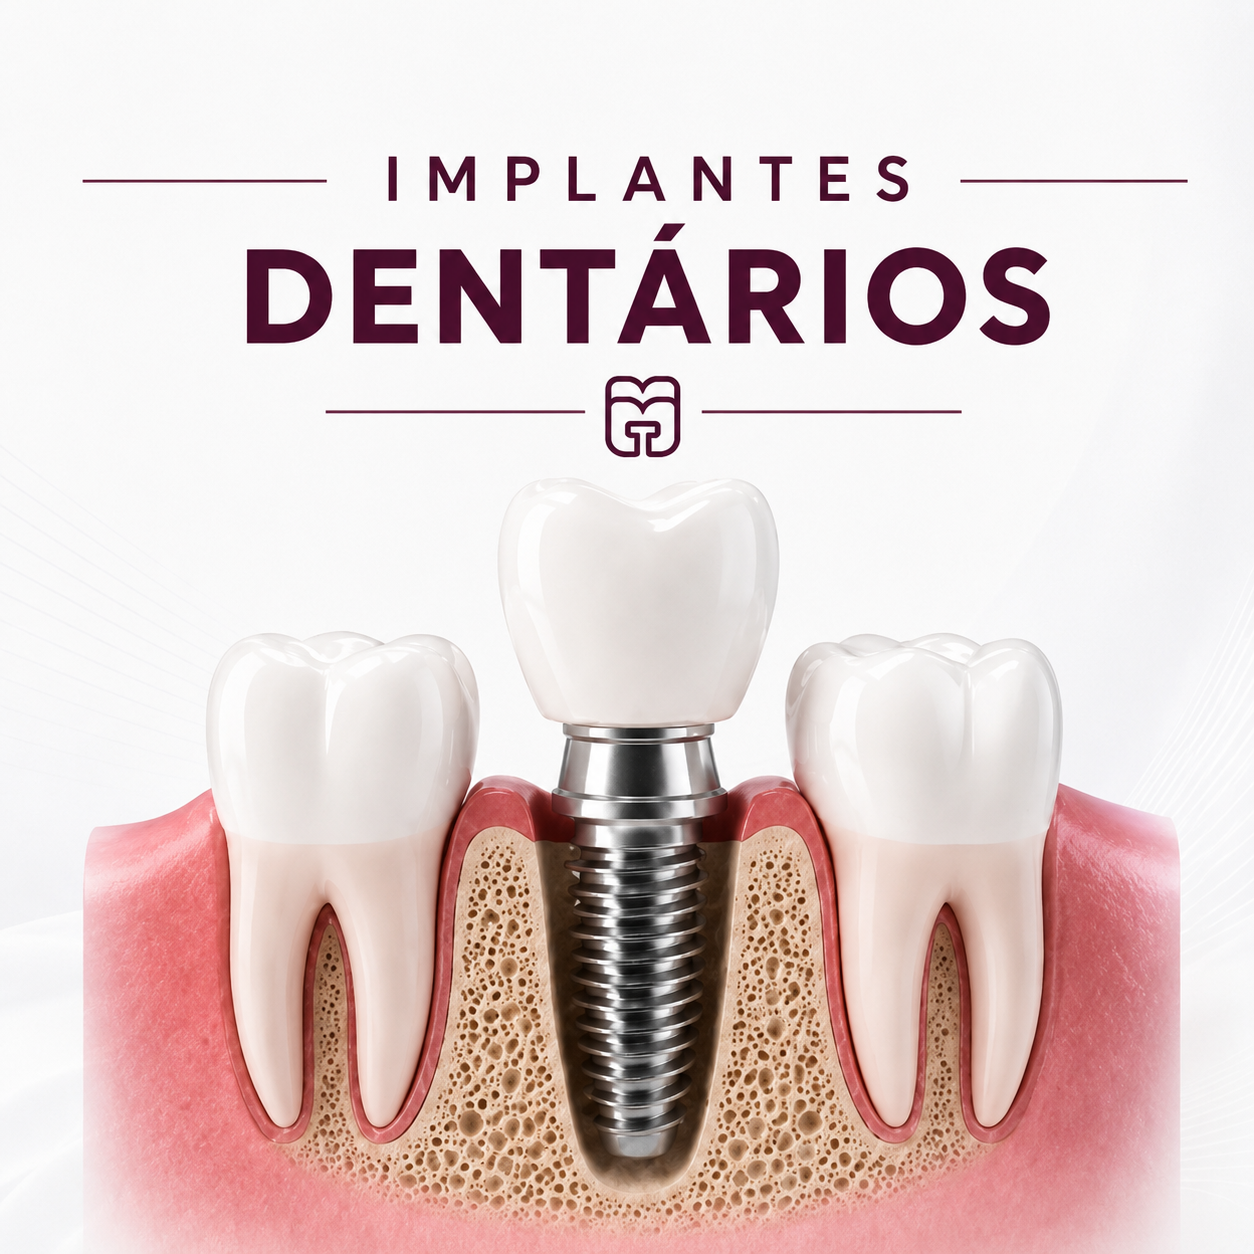
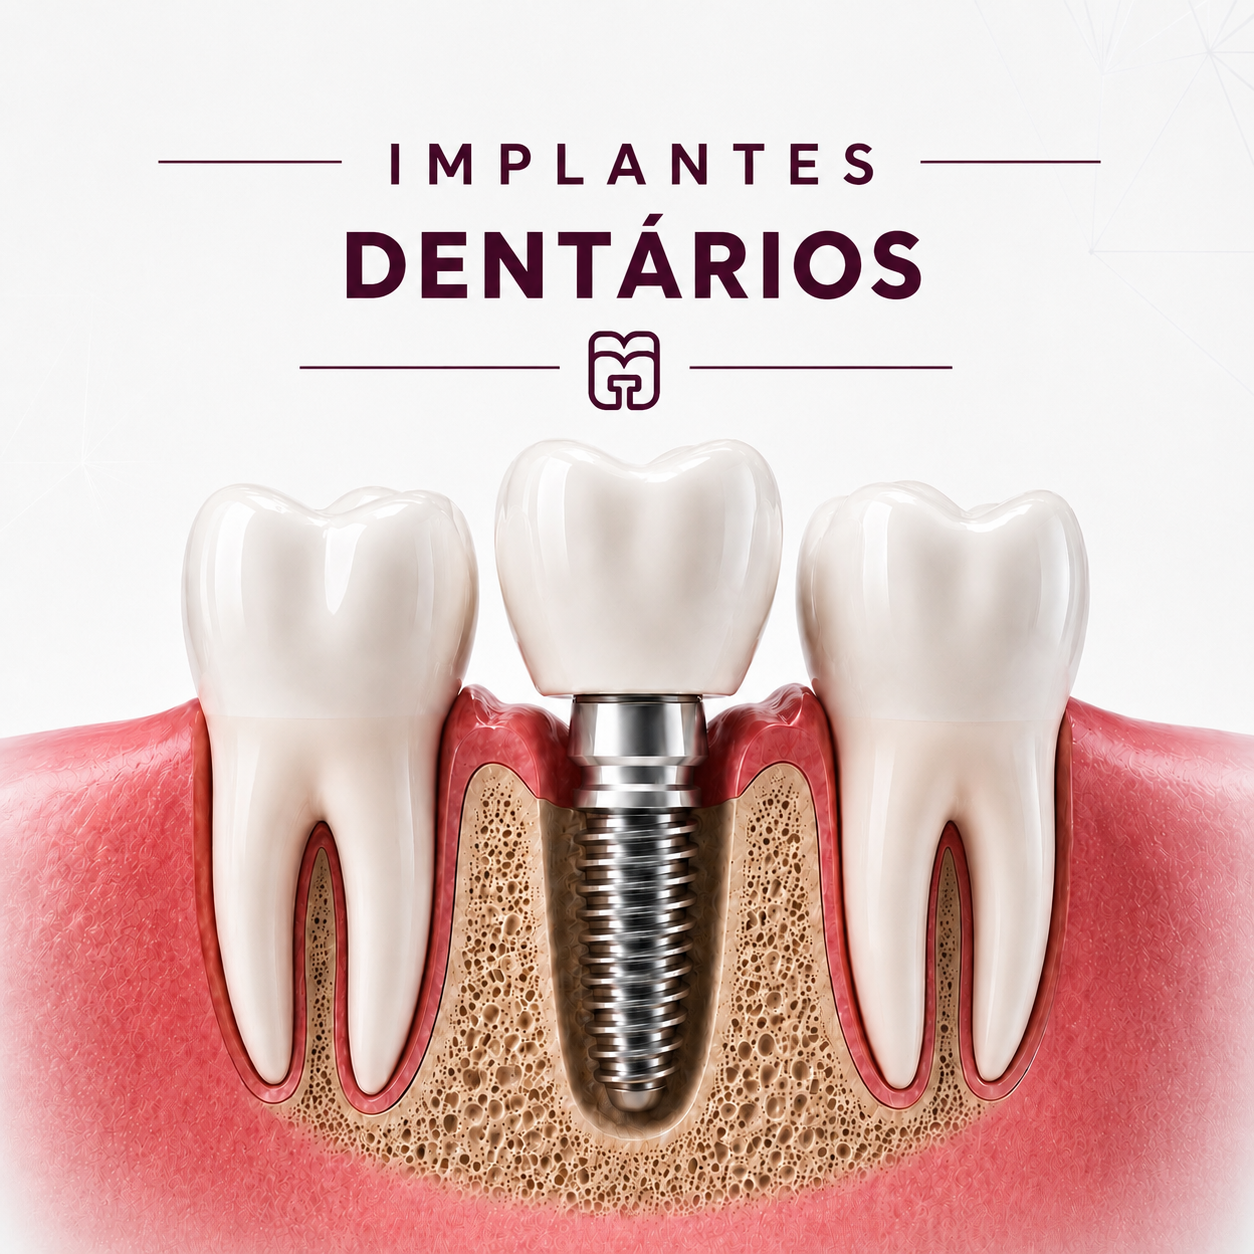
“ajustes”

diff --git a/src/components/site/LocationSection.tsx b/src/components/site/LocationSection.tsx
@@ -1,6 +1,7 @@
 import { MapPin, Clock, Phone, Car } from "lucide-react";
 import { Button } from "@/components/ui/button";
 import { siteConfig } from "@/lib/site-config";
+import clinicaEntrada from "@/assets/clinica-entrada.jpg";
 import clinicaInterior from "@/assets/clinica-interior.jpg";
 
 export function LocationSection() {
@@ -15,22 +16,35 @@ export function LocationSection() {
             Venha nos conhecer
           </h2>
           <p className="mt-4 text-lg text-muted-foreground">
-            Clínica moderna, acolhedora, localizada na zona leste de Teresina, próximo ao Jockey Class Hotel. Temos estacionamento.
-            
+            Clínica moderna, acolhedora, localizada na zona leste de Teresina, próximo ao Jockey
+            Class Hotel. Temos estacionamento.
           </p>
         </div>
 
         <div className="mt-12 grid gap-8 lg:grid-cols-2">
-          <div className="aspect-video overflow-hidden rounded-2xl shadow-dental">
-            <img
-              src={clinicaInterior}
-              alt="Interior moderno da clínica odontológica da Dra. Teresa Marly"
-              width={1920}
-              height={1088}
-              className="h-full w-full object-cover"
-              loading="lazy"
-              decoding="async"
-            />
+          <div className="grid grid-cols-2 gap-3 lg:self-stretch">
+            <div className="aspect-square overflow-hidden rounded-2xl shadow-dental lg:aspect-auto">
+              <img
+                src={clinicaEntrada}
+                alt="Recepção da clínica odontológica da Dra. Teresa Marly"
+                width={1101}
+                height={1254}
+                className="h-full w-full object-cover"
+                loading="lazy"
+                decoding="async"
+              />
+            </div>
+            <div className="aspect-square overflow-hidden rounded-2xl shadow-dental lg:aspect-auto">
+              <img
+                src={clinicaInterior}
+                alt="Interior moderno da clínica odontológica da Dra. Teresa Marly"
+                width={1254}
+                height={1254}
+                className="h-full w-full object-cover"
+                loading="lazy"
+                decoding="async"
+              />
+            </div>
           </div>
 
           <div className="flex flex-col justify-center space-y-6 rounded-2xl bg-white p-8 shadow-sm">
@@ -75,7 +89,8 @@ export function LocationSection() {
               <div>
                 <h3 className="font-semibold text-foreground">Como chegar</h3>
                 <p className="mt-1 text-sm text-muted-foreground">
-                  Localizado no Edificio Manhattan River Center, com fácil acesso e estacionamento próximo.
+                  Localizado no Edificio Manhattan River Center, com fácil acesso e estacionamento
+                  próximo.
                 </p>
               </div>
             </div>
